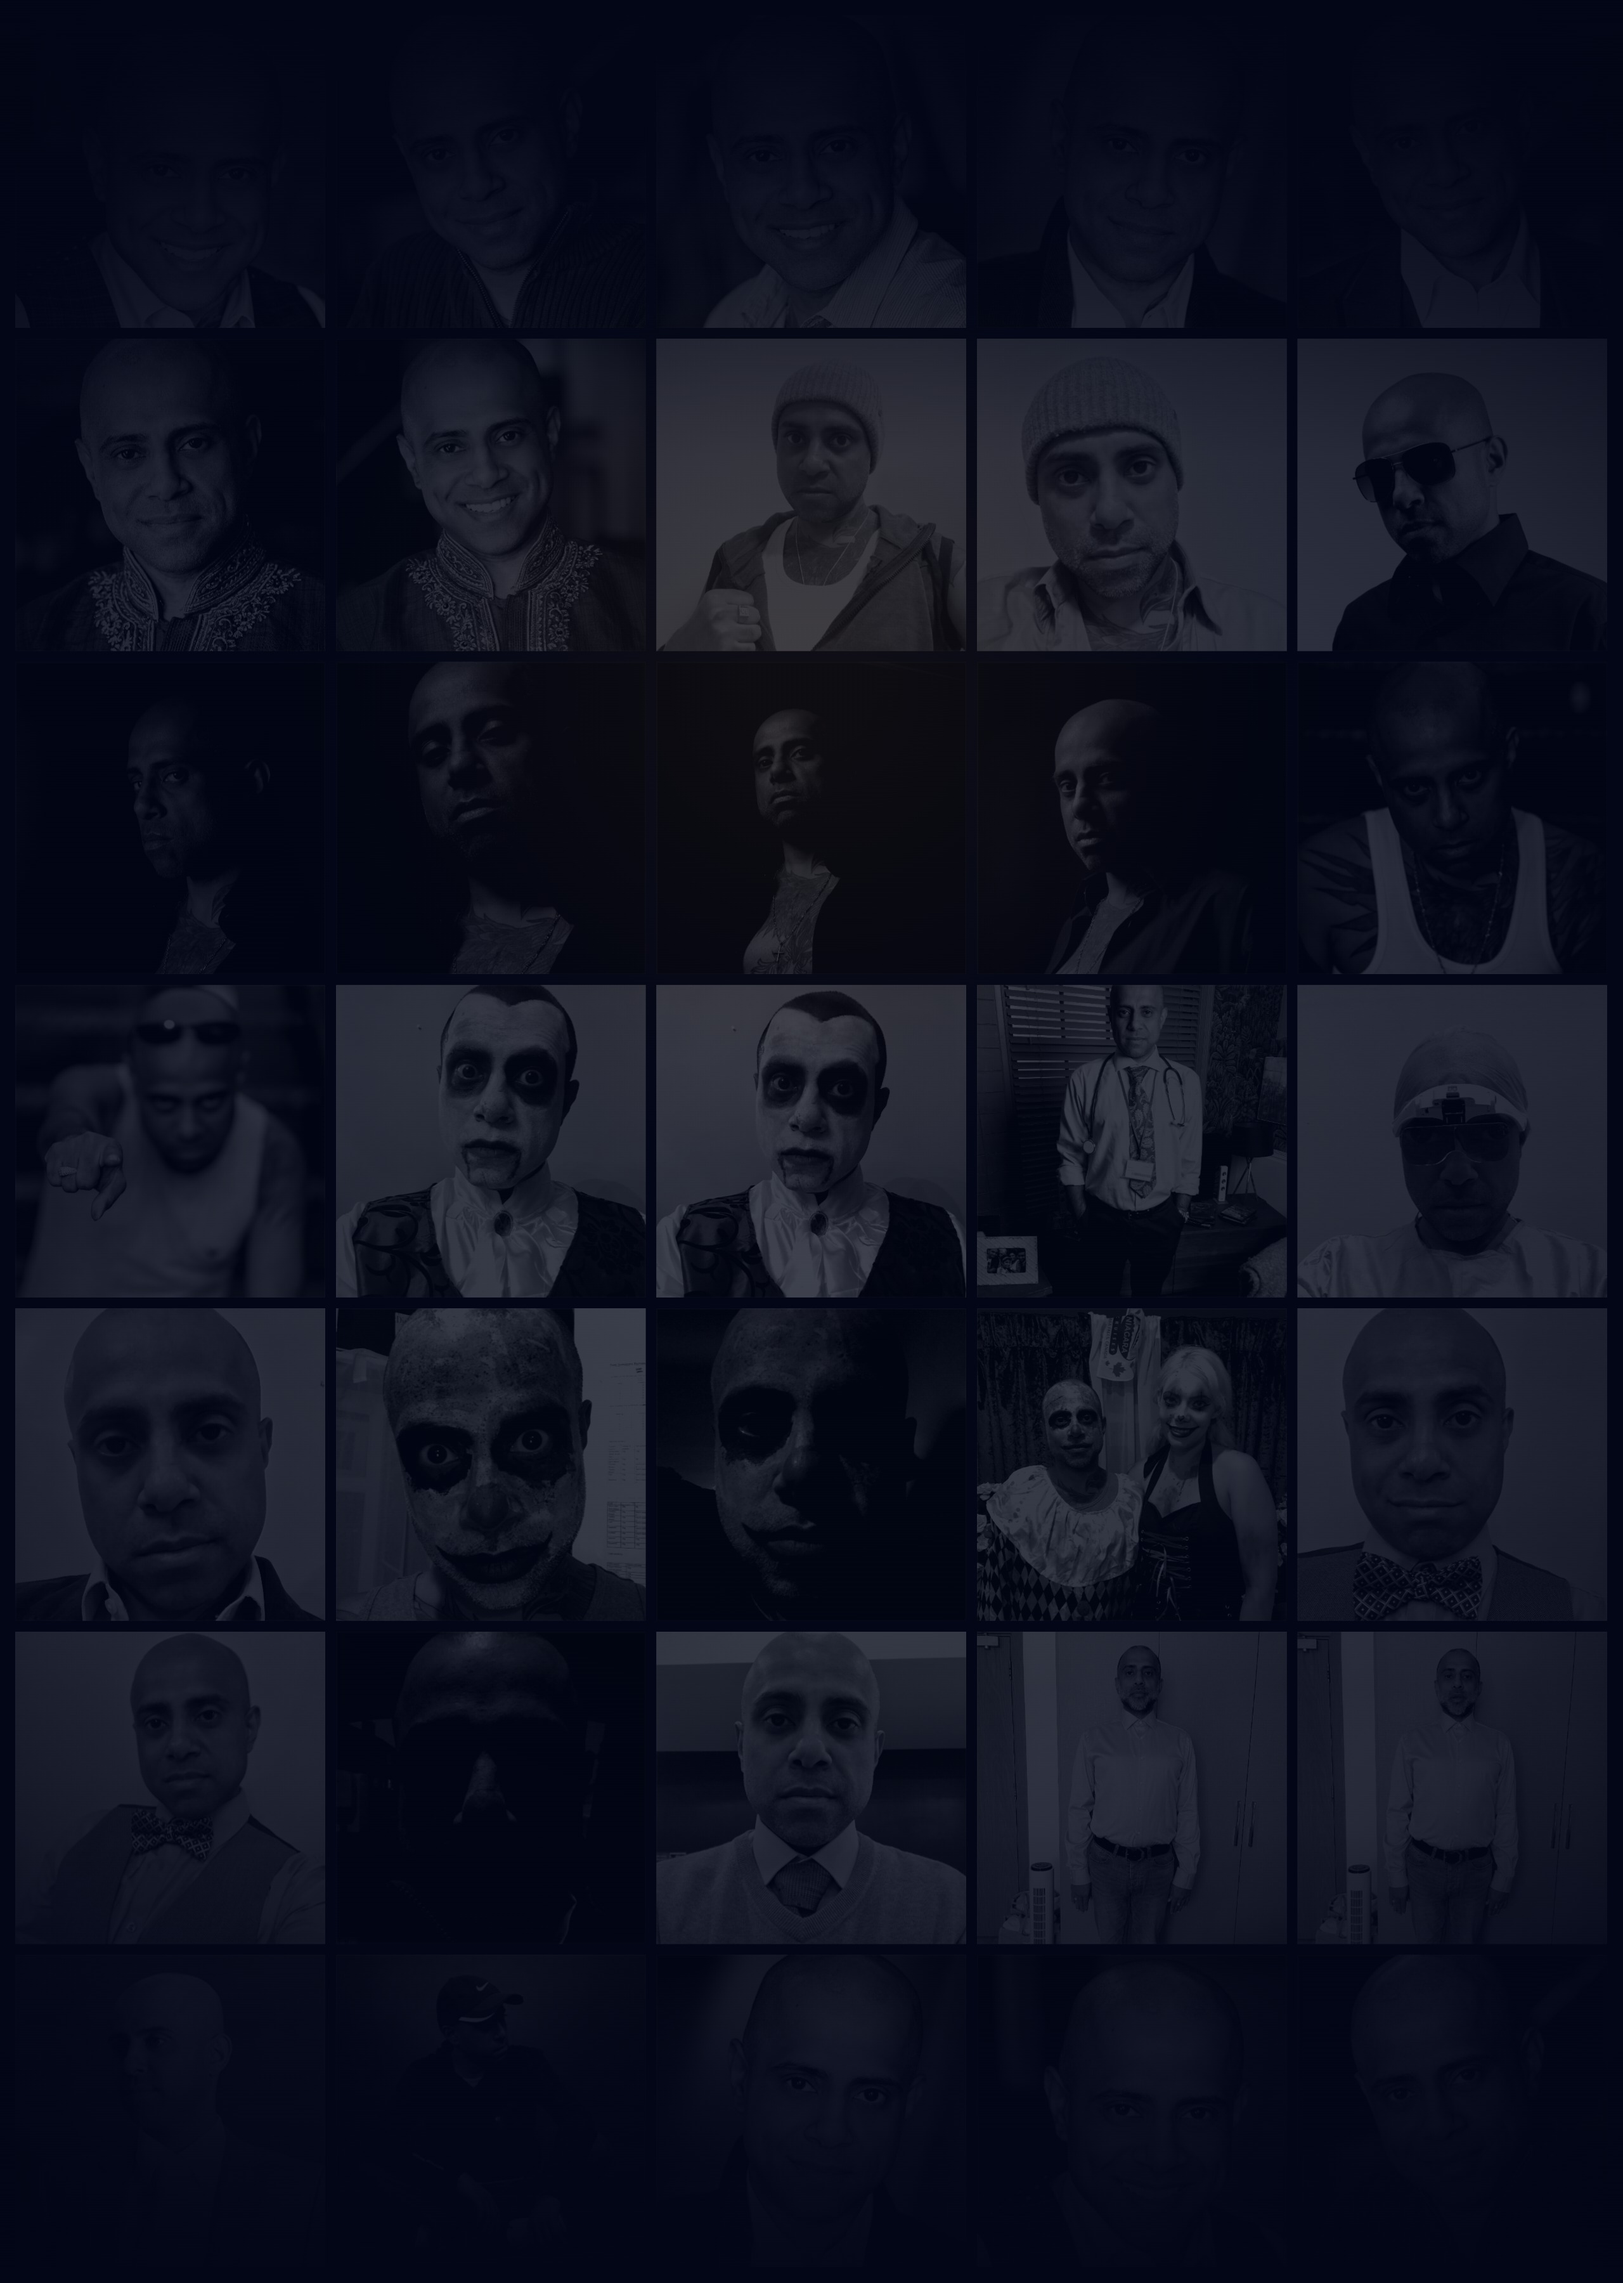
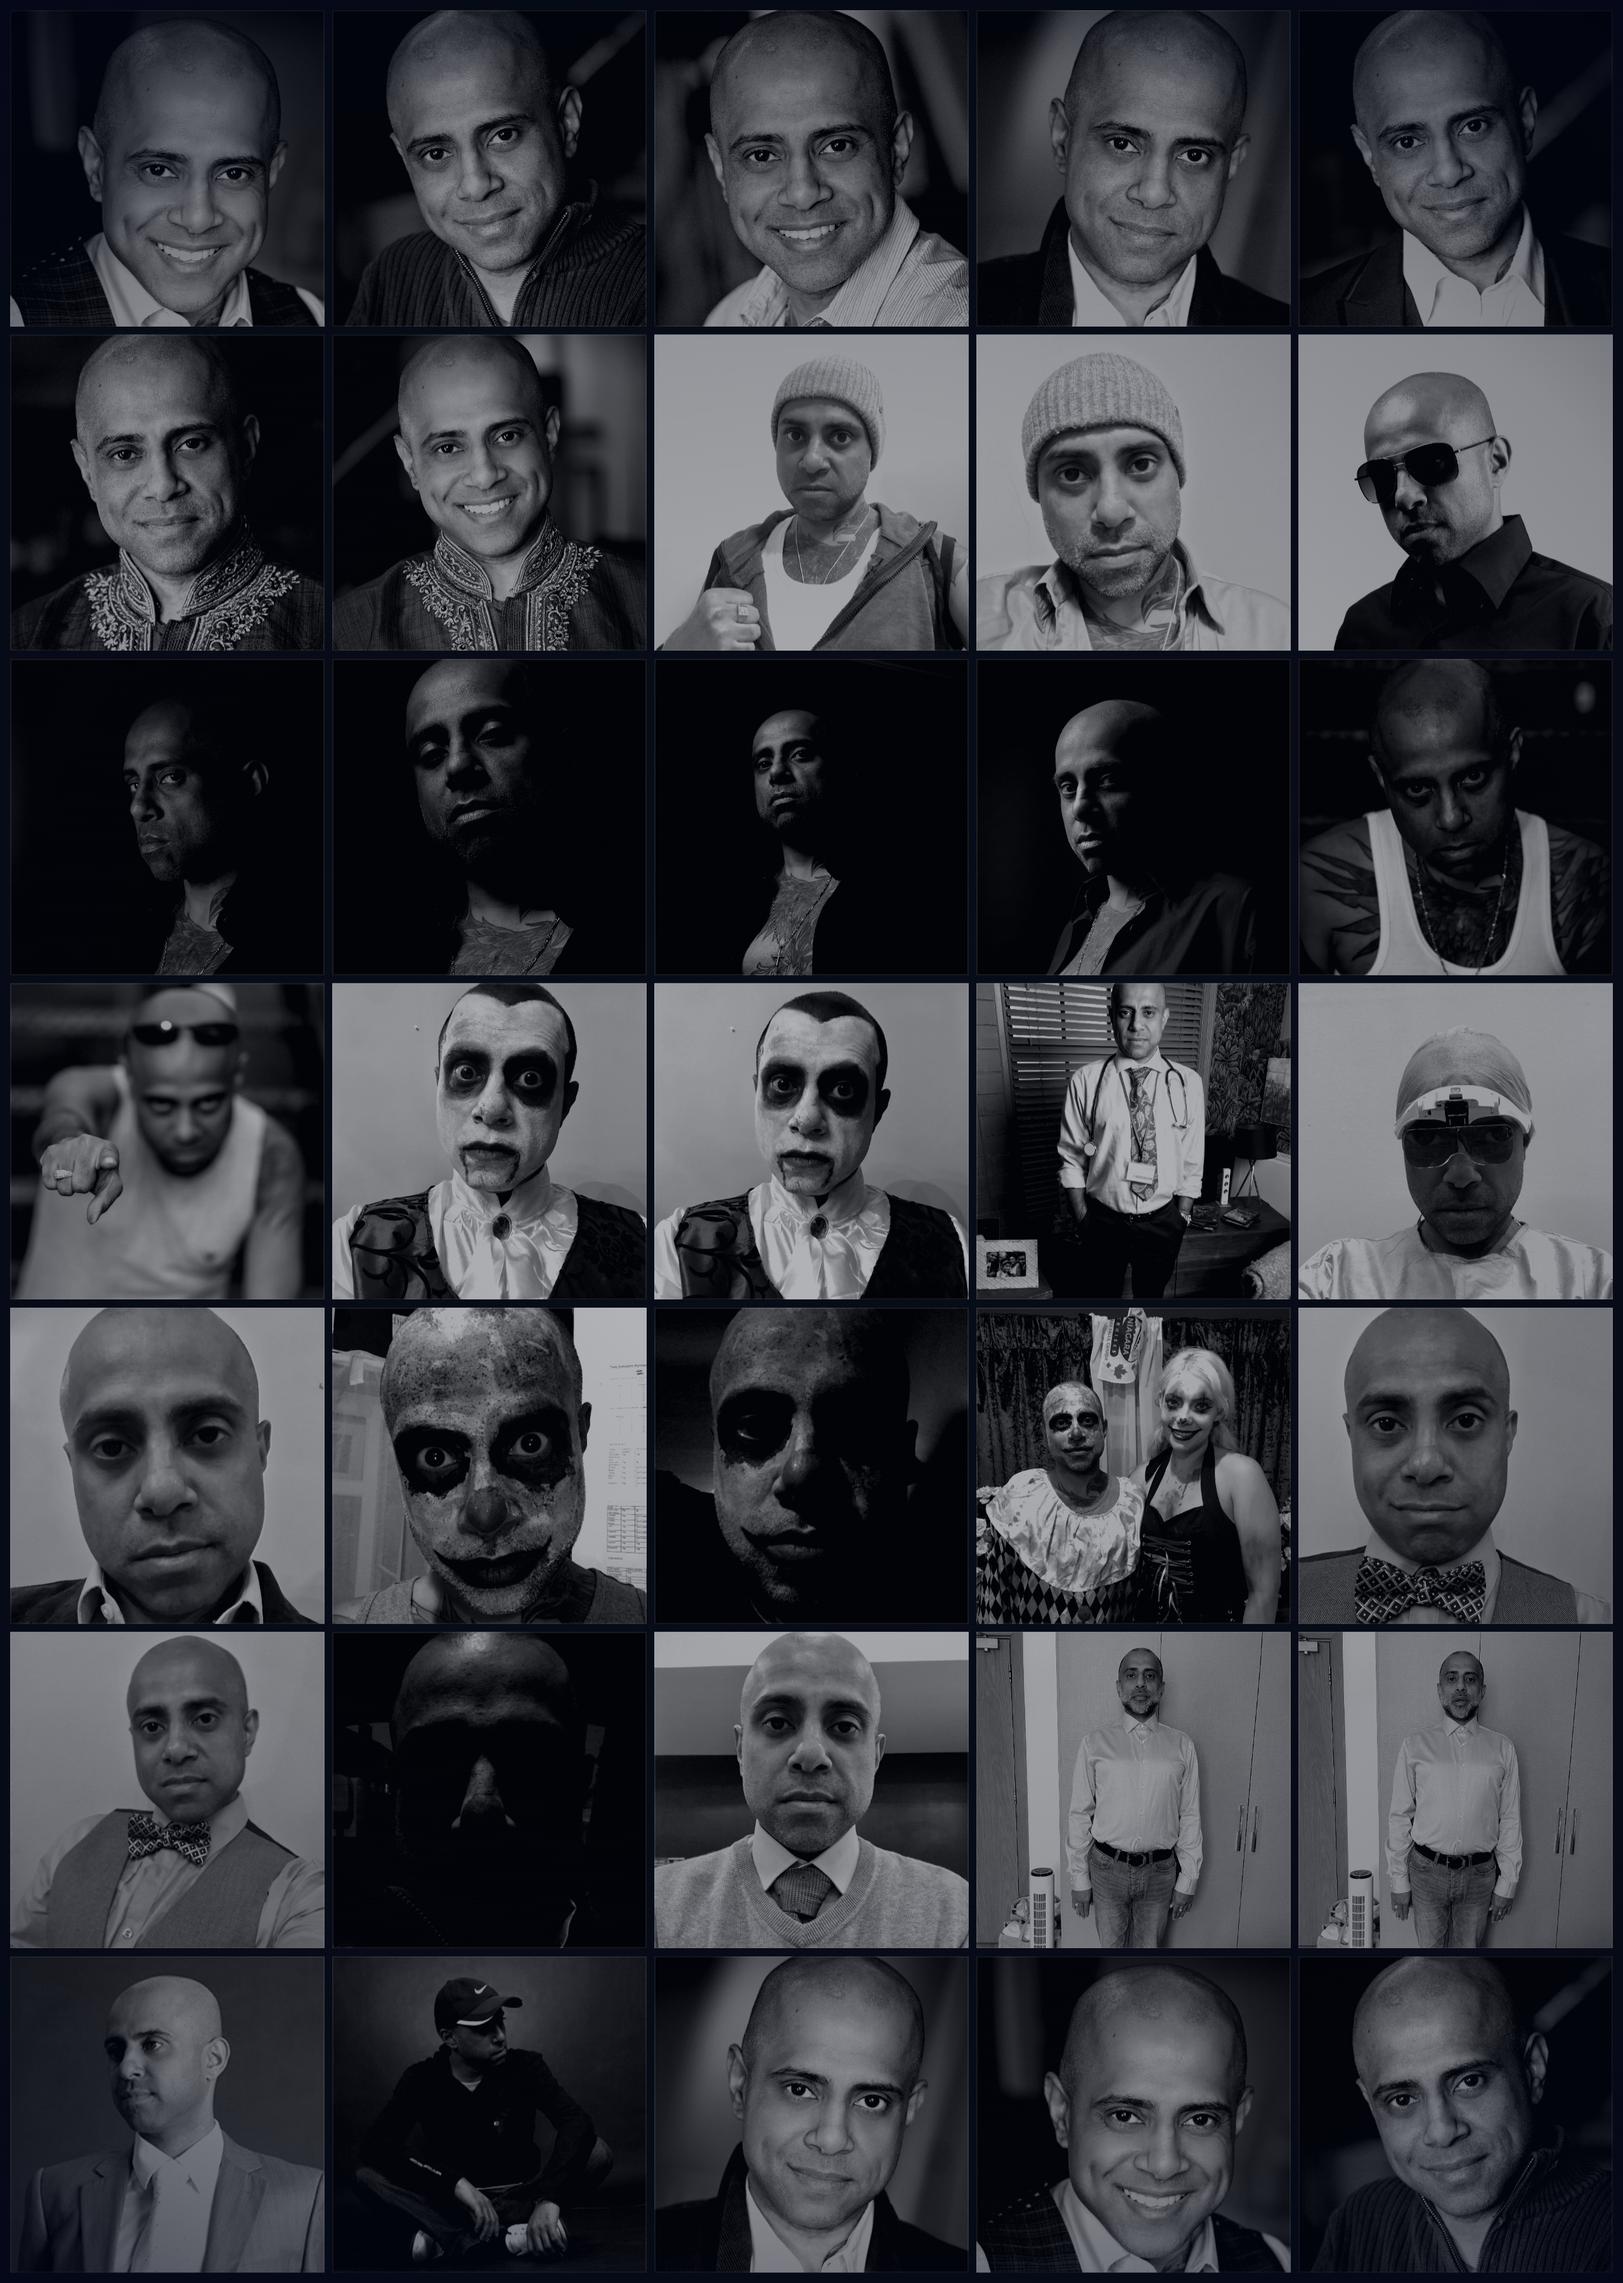
fix: boosted background wallpaper brightness and tuned theme overlay for high visibility

diff --git a/public/css/themes.css b/public/css/themes.css
@@ -13,7 +13,7 @@
 [data-theme="editorial-light"] {
   --bg-main: #f8fafc;
   --bg-nav: rgba(255, 255, 255, 0.92);
-  --bg-card: rgba(255, 255, 255, 0.85);
+  --bg-card: rgba(255, 255, 255, 0.78);
   --border-card: rgba(15, 23, 42, 0.12);
   --text-main: #0f172a;
   --text-muted: #334155;
@@ -24,14 +24,14 @@
   --accent-glow: rgba(217, 119, 6, 0.3);
   --font-heading: 'Cinzel', serif;
   --font-body: 'Plus Jakarta Sans', sans-serif;
-  --bg-overlay: linear-gradient(to bottom, rgba(248, 250, 252, 0.65), rgba(248, 250, 252, 0.88));
+  --bg-overlay: linear-gradient(to bottom, rgba(248, 250, 252, 0.35), rgba(248, 250, 252, 0.60));
 }
 
 /* 2. WARM LINEN & TERRACOTTA (Vogue Luxury / Sand Beige) */
 [data-theme="warm-linen"] {
   --bg-main: #f5ede0;
   --bg-nav: rgba(245, 237, 224, 0.94);
-  --bg-card: rgba(254, 250, 243, 0.88);
+  --bg-card: rgba(254, 250, 243, 0.78);
   --border-card: rgba(194, 65, 12, 0.2);
   --text-main: #271810;
   --text-muted: #573a2e;
@@ -42,14 +42,14 @@
   --accent-glow: rgba(194, 65, 12, 0.35);
   --font-heading: 'Cinzel', serif;
   --font-body: 'Plus Jakarta Sans', sans-serif;
-  --bg-overlay: linear-gradient(to bottom, rgba(245, 237, 224, 0.65), rgba(245, 237, 224, 0.88));
+  --bg-overlay: linear-gradient(to bottom, rgba(245, 237, 224, 0.35), rgba(245, 237, 224, 0.60));
 }
 
 /* 3. NORDIC GLACIER & ARCTIC TEAL (Ice Blue / Crisp Modern) */
 [data-theme="nordic-frost"] {
   --bg-main: #eef6fb;
   --bg-nav: rgba(238, 246, 251, 0.94);
-  --bg-card: rgba(255, 255, 255, 0.88);
+  --bg-card: rgba(255, 255, 255, 0.78);
   --border-card: rgba(2, 132, 199, 0.22);
   --text-main: #082f49;
   --text-muted: #1e4f73;
@@ -60,14 +60,14 @@
   --accent-glow: rgba(2, 132, 199, 0.35);
   --font-heading: 'Plus Jakarta Sans', sans-serif;
   --font-body: 'Plus Jakarta Sans', sans-serif;
-  --bg-overlay: linear-gradient(to bottom, rgba(238, 246, 251, 0.65), rgba(238, 246, 251, 0.90));
+  --bg-overlay: linear-gradient(to bottom, rgba(238, 246, 251, 0.35), rgba(238, 246, 251, 0.62));
 }
 
 /* 4. MIAMI NEON SUNSET (Synthwave / Electric Magenta & Cyan) */
 [data-theme="neon-sunset"] {
   --bg-main: #0d041c;
   --bg-nav: rgba(13, 4, 28, 0.82);
-  --bg-card: rgba(28, 10, 56, 0.58);
+  --bg-card: rgba(28, 10, 56, 0.52);
   --border-card: rgba(244, 63, 94, 0.45);
   --text-main: #ffffff;
   --text-muted: #fed7aa;
@@ -78,14 +78,14 @@
   --accent-glow: rgba(244, 63, 94, 0.55);
   --font-heading: 'Plus Jakarta Sans', sans-serif;
   --font-body: 'Plus Jakarta Sans', sans-serif;
-  --bg-overlay: linear-gradient(to bottom, rgba(13, 4, 28, 0.45), rgba(13, 4, 28, 0.75));
+  --bg-overlay: linear-gradient(to bottom, rgba(13, 4, 28, 0.25), rgba(13, 4, 28, 0.55));
 }
 
 /* 5. OXFORD ROYAL NAVY & CHAMPAGNE GOLD (Executive Prestige) */
 [data-theme="royal-navy"] {
   --bg-main: #071426;
   --bg-nav: rgba(7, 20, 38, 0.85);
-  --bg-card: rgba(15, 32, 58, 0.62);
+  --bg-card: rgba(15, 32, 58, 0.55);
   --border-card: rgba(251, 191, 36, 0.35);
   --text-main: #ffffff;
   --text-muted: #cbd5e1;
@@ -96,14 +96,14 @@
   --accent-glow: rgba(251, 191, 36, 0.45);
   --font-heading: 'Cinzel', serif;
   --font-body: 'Plus Jakarta Sans', sans-serif;
-  --bg-overlay: linear-gradient(to bottom, rgba(7, 20, 38, 0.45), rgba(7, 20, 38, 0.75));
+  --bg-overlay: linear-gradient(to bottom, rgba(7, 20, 38, 0.25), rgba(7, 20, 38, 0.55));
 }
 
 /* 6. CYBER MATRIX EMERALD (Pitch Black & Electric Matrix Lime) */
 [data-theme="emerald-matrix"] {
   --bg-main: #010d06;
   --bg-nav: rgba(1, 13, 6, 0.85);
-  --bg-card: rgba(2, 28, 14, 0.65);
+  --bg-card: rgba(2, 28, 14, 0.58);
   --border-card: rgba(0, 255, 102, 0.4);
   --text-main: #ffffff;
   --text-muted: #a7f3d0;
@@ -114,14 +114,14 @@
   --accent-glow: rgba(0, 255, 102, 0.5);
   --font-heading: 'JetBrains Mono', monospace;
   --font-body: 'Plus Jakarta Sans', sans-serif;
-  --bg-overlay: linear-gradient(to bottom, rgba(1, 13, 6, 0.45), rgba(1, 13, 6, 0.75));
+  --bg-overlay: linear-gradient(to bottom, rgba(1, 13, 6, 0.25), rgba(1, 13, 6, 0.55));
 }
 
 /* 7. HOLLYWOOD CRIMSON VELVET (Dramatic Theatre & Ruby Embers) */
 [data-theme="crimson-stage"] {
   --bg-main: #1c0409;
   --bg-nav: rgba(28, 4, 9, 0.85);
-  --bg-card: rgba(45, 8, 16, 0.65);
+  --bg-card: rgba(45, 8, 16, 0.58);
   --border-card: rgba(225, 29, 72, 0.45);
   --text-main: #ffffff;
   --text-muted: #fecdd3;
@@ -132,7 +132,7 @@
   --accent-glow: rgba(225, 29, 72, 0.55);
   --font-heading: 'Cinzel', serif;
   --font-body: 'Plus Jakarta Sans', sans-serif;
-  --bg-overlay: linear-gradient(to bottom, rgba(28, 4, 9, 0.45), rgba(28, 4, 9, 0.75));
+  --bg-overlay: linear-gradient(to bottom, rgba(28, 4, 9, 0.25), rgba(28, 4, 9, 0.55));
 }
 
 /* 8. PURE CINEMA NOIR (Signature Obsidian & Amber Gold - Default) */
@@ -152,7 +152,7 @@
   --font-body: 'Plus Jakarta Sans', sans-serif;
   --font-serif: 'Cinzel', serif;
   --font-code: 'JetBrains Mono', monospace;
-  --bg-overlay: linear-gradient(to bottom, rgba(3, 7, 18, 0.45), rgba(3, 7, 18, 0.68));
+  --bg-overlay: linear-gradient(to bottom, rgba(3, 7, 18, 0.18), rgba(3, 7, 18, 0.45));
 }
 
 /* ==========================================================================
@@ -234,7 +234,7 @@ body {
   background-size: 100% auto;
   background-position: center top;
   background-repeat: repeat-y;
-  filter: grayscale(100%) contrast(150%) brightness(0.48);
+  filter: grayscale(100%) contrast(115%) brightness(0.85);
   transition: background-image 0.6s ease-in-out, filter 0.4s ease;
   will-change: background-position;
   pointer-events: none;

diff --git a/public/js/app.js b/public/js/app.js
@@ -110,6 +110,11 @@ function renderAll() {
   if (appData.activeTheme) {
     document.documentElement.setAttribute('data-theme', appData.activeTheme);
   }
+  const bgLayer = document.getElementById('globalBgLayer');
+  if (bgLayer) {
+    const activeBg = appData.activeBgImage || 'assets/steve_bw_stitched_bg.jpg';
+    bgLayer.style.backgroundImage = `url('${activeBg}')`;
+  }
   applySiteTexts();
   renderWorks();
   renderAdminCreditsTable();
